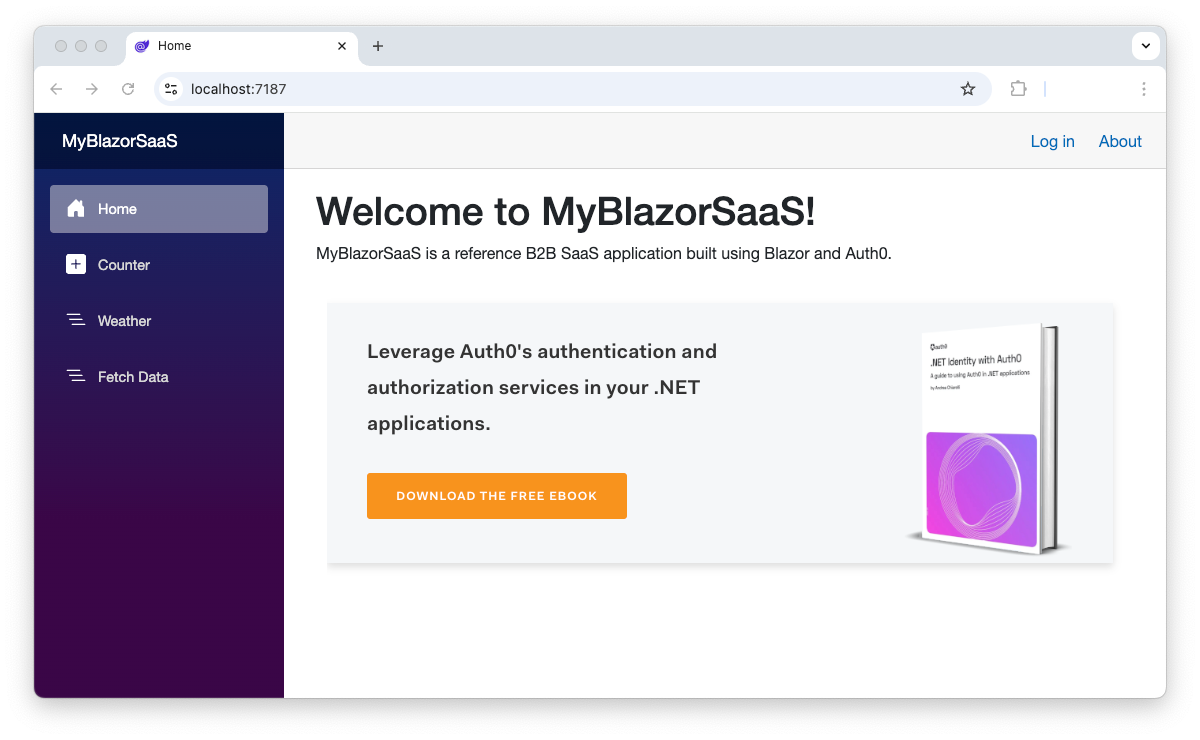
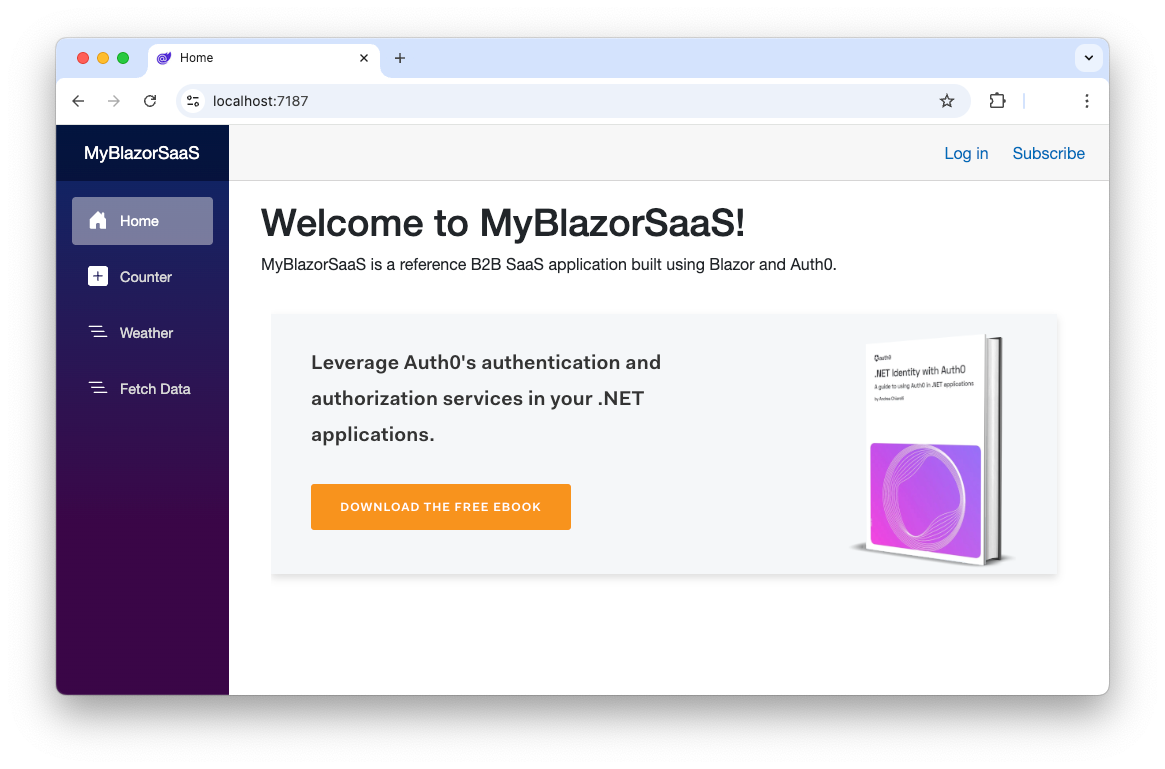
Add self-subscribe and organizatio creation

Changed region(s): [[0.0, 0.0311, 0.9888, 0.9635], [0.7416, 0.4351, 0.8961, 0.777]]

diff --git a/MyBlazorSaaS/Program.cs b/MyBlazorSaaS/Program.cs
@@ -16,6 +16,16 @@ builder.Services
       options.Scope = "openid profile email";
     });
 
+builder.Services
+    .AddAuth0WebAppAuthentication("OnboardingScheme", options => {
+      options.Domain = builder.Configuration["Auth0:Domain"];
+      options.ClientId = builder.Configuration["Auth0:ManagementClientId"];
+      options.ClientSecret = builder.Configuration["Auth0:ManagementClientSecret"];
+      options.Scope = "openid profile email";
+      options.CookieAuthenticationScheme = "OnboardingCookieScheme";
+      options.CallbackPath = "/onboarding/callback";
+    });
+
 // Add services to the container.
 builder.Services.AddRazorComponents()
     .AddInteractiveServerComponents()
@@ -23,6 +33,14 @@ builder.Services.AddRazorComponents()
     .AddAuthenticationStateSerialization();
 
 builder.Services.AddHttpClient();
+
+builder.Services.AddSingleton<IAuth0Management>(sp => 
+  new Auth0Management(
+    builder.Configuration["Auth0:Domain"],
+    builder.Configuration["Auth0:ManagementClientId"],
+    builder.Configuration["Auth0:ManagementClientSecret"]
+  )
+);
 
 var app = builder.Build();
 
@@ -61,6 +79,20 @@ app.MapGet("/account/logout", async (HttpContext httpContext, string returnUrl =
 
   await httpContext.SignOutAsync(Auth0Constants.AuthenticationScheme, authenticationProperties);
   await httpContext.SignOutAsync(CookieAuthenticationDefaults.AuthenticationScheme);
+
+  await httpContext.SignOutAsync("OnboardingScheme", authenticationProperties);
+  await httpContext.SignOutAsync("OnboardingCookieScheme");
+});
+
+app.MapGet("/account/signup", async (HttpContext httpContext, string login_hint) =>
+{
+  var authenticationProperties = new LoginAuthenticationPropertiesBuilder()
+          .WithRedirectUri("/onboarding/createOrganization")
+          .WithParameter("screen_hint", "signup")
+          .WithParameter("login_hint", login_hint)
+          .Build();
+
+  await httpContext.ChallengeAsync("OnboardingScheme", authenticationProperties);
 });
 
 app.MapGet("/api/internalData", () =>

diff --git a/MyBlazorSaaS/Auth0Management.cs b/MyBlazorSaaS/Auth0Management.cs
@@ -1,0 +1,39 @@
+using Auth0.ManagementApi;
+using Auth0.AuthenticationApi;
+using Auth0.AuthenticationApi.Models;
+
+interface IAuth0Management
+{
+  Task<ManagementApiClient> getClient();
+}
+
+public class Auth0Management: IAuth0Management
+{
+  private string _domain = "";
+  private string _clientId = "";
+  private string _clientSecret = "";
+  private ManagementApiClient managementClient = null;
+
+  public Auth0Management(string domain, string clientId, string clientSecret)
+  {
+    _domain = domain;
+    _clientId = clientId;
+    _clientSecret = clientSecret;
+  }
+
+  public async Task<ManagementApiClient> getClient()
+  {
+    if (managementClient is null)
+    {
+      var authClient = new AuthenticationApiClient(_domain);
+      var token = await authClient.GetTokenAsync(new ClientCredentialsTokenRequest
+      {
+        Audience = $"https://{_domain}/api/v2/",
+        ClientId = _clientId,
+        ClientSecret = _clientSecret
+      });
+      managementClient = new ManagementApiClient(token.AccessToken, _domain);   
+    }
+    return managementClient;
+  }
+}

diff --git a/README.md b/README.md
@@ -1,4 +1,6 @@
-This repository contains a basic Blazor application integrated with Auth0 authentication and supporting authentication in the context of an Auth0 Organization.
+This repository contains a basic B2B Blazor Web application integrated with Auth0 Organizations.
+
+Read the article [Enable Self-Subscribing Model in Your Blazor B2B SaaS Application](https://auth0.com/blog/enable-self-subscription-in-blazor-b2b-saas-application) to learn more about it.
 
 # Requirements
 
@@ -9,12 +11,12 @@ This repository contains a basic Blazor application integrated with Auth0 authen
 1. Clone the repo with the following command:
 
    ```bash
-   git clone --branch organization-manual --single-branch https://github.com/XXXXXXXXXXXX
+   git clone https://github.com/andychiare/MyBlazorSaaS
    ```
 
-2. Move to the `MyBlazorSaaS` folder.
+2. Move to the `MyBlazorSaaS\MyBlazorSaaS` folder.
 
-3. Add your Auth0 domain and client id to the `appsettings.json` configuration file (see [Register with Auth0](https://auth0.com/docs/get-started/auth0-overview/create-applications/regular-web-apps) for more details).
+3. Add your Auth0 domain and client ID to the `appsettings.json` configuration file (see [Register with Auth0](https://auth0.com/docs/get-started/auth0-overview/create-applications/regular-web-apps) for more details).
 
 4. Make sure you have [enabled Organization support for the application in your Auth0 tenant](https://auth0.com/docs/manage-users/organizations/login-flows-for-organizations#configure-your-application-to-use-organizations).
 
